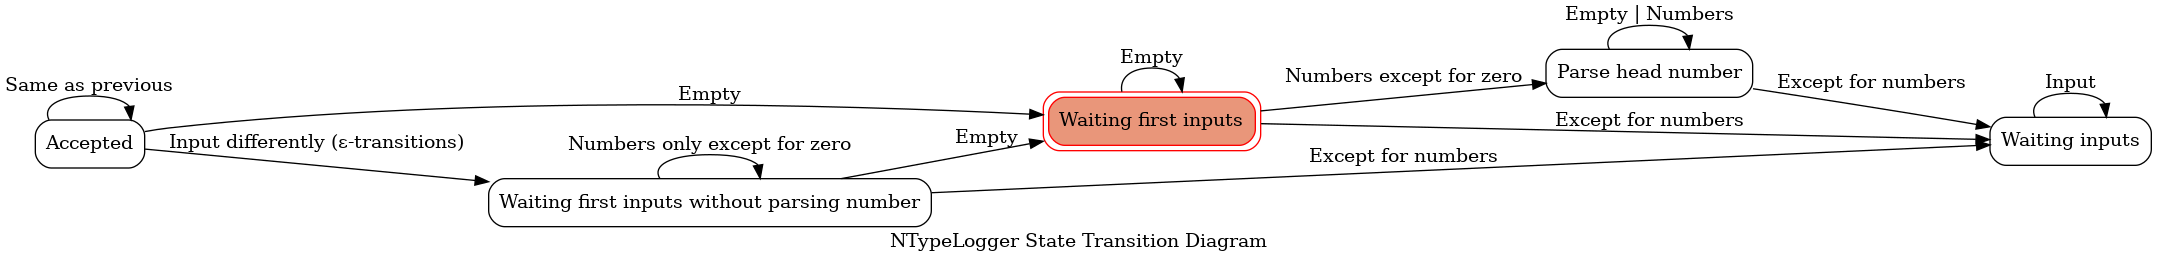
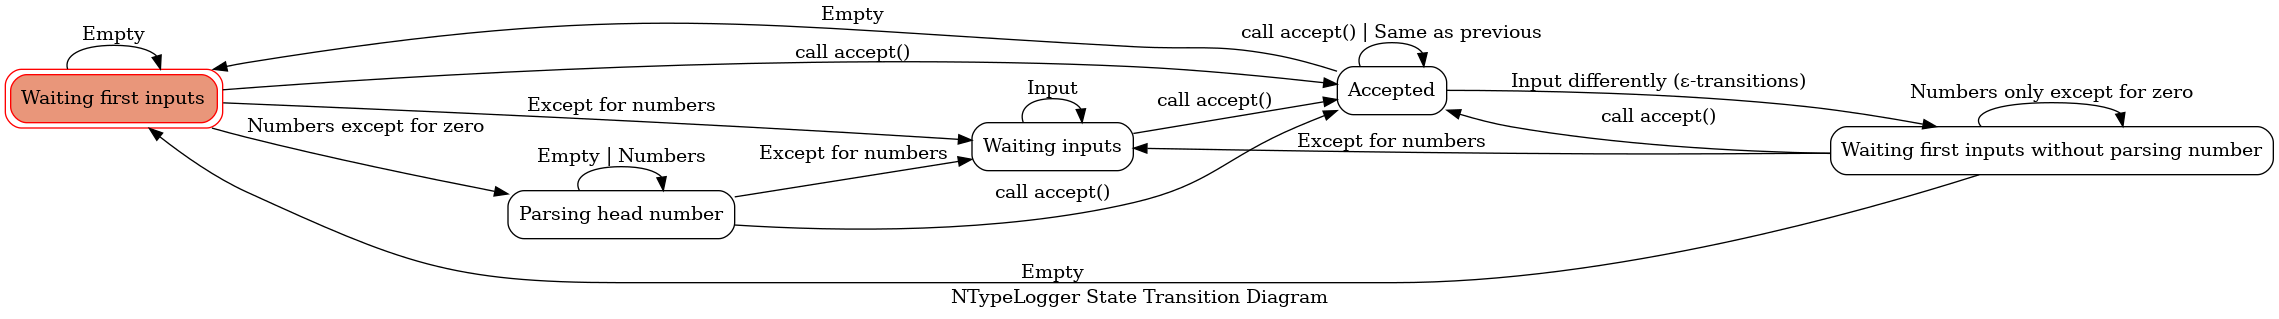
fix diagram

diff --git a/devdocs/generator/ntype_logger/generate.py b/devdocs/generator/ntype_logger/generate.py
@@ -9,7 +9,7 @@ class Model(object):
 
 states = [
     'Waiting first inputs',
-    'Parse head number',
+    'Parsing head number',
     'Waiting first inputs without parsing number',
     'Waiting inputs',
     'Accepted'
@@ -40,6 +40,11 @@ transitions = [
         'source': get_states['first_wait_wnum'],
         'dest': get_states['wait']
     },
+    {
+        'trigger': 'call accept()',
+        'source': get_states['first_wait_wnum'],
+        'dest': get_states['acc']
+    },
 
     # Initial Waiting
     {
@@ -57,12 +62,22 @@ transitions = [
         'source': get_states['first_wait'],
         'dest': get_states['wait']
     },
+    {
+        'trigger': 'call accept()',
+        'source': get_states['first_wait'],
+        'dest': get_states['acc']
+    },
 
     # Waiting
     {
         'trigger': 'Input',
         'source': get_states['wait'],
         'dest': get_states['wait']
+    },
+    {
+        'trigger': 'call accept()',
+        'source': get_states['wait'],
+        'dest': get_states['acc']
     },
 
     # Accepted
@@ -81,6 +96,11 @@ transitions = [
         'source': get_states['acc'],
         'dest': get_states['first_wait']
     },
+    {
+        'trigger': 'call accept()',
+        'source': get_states['acc'],
+        'dest': get_states['acc']
+    },
 
     # Parse number
     {
@@ -97,7 +117,12 @@ transitions = [
         'trigger': 'Except for numbers',
         'source': get_states['parse_num'],
         'dest': get_states['wait']
-    }
+    },
+    {
+        'trigger': 'call accept()',
+        'source': get_states['parse_num'],
+        'dest': get_states['acc']
+    },
 ]
 
 model = Model()
